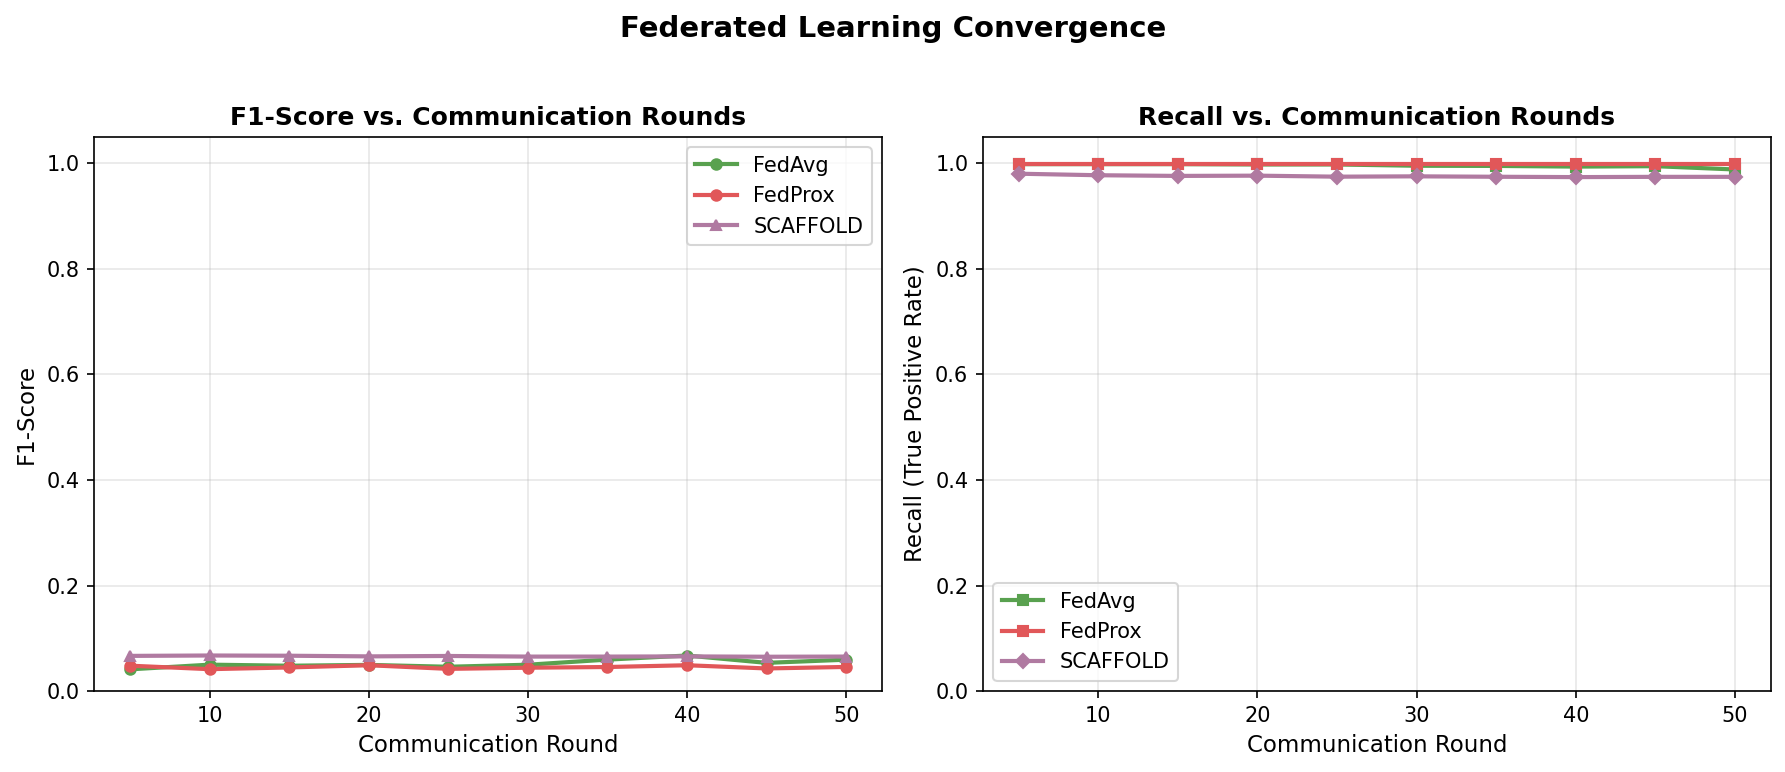
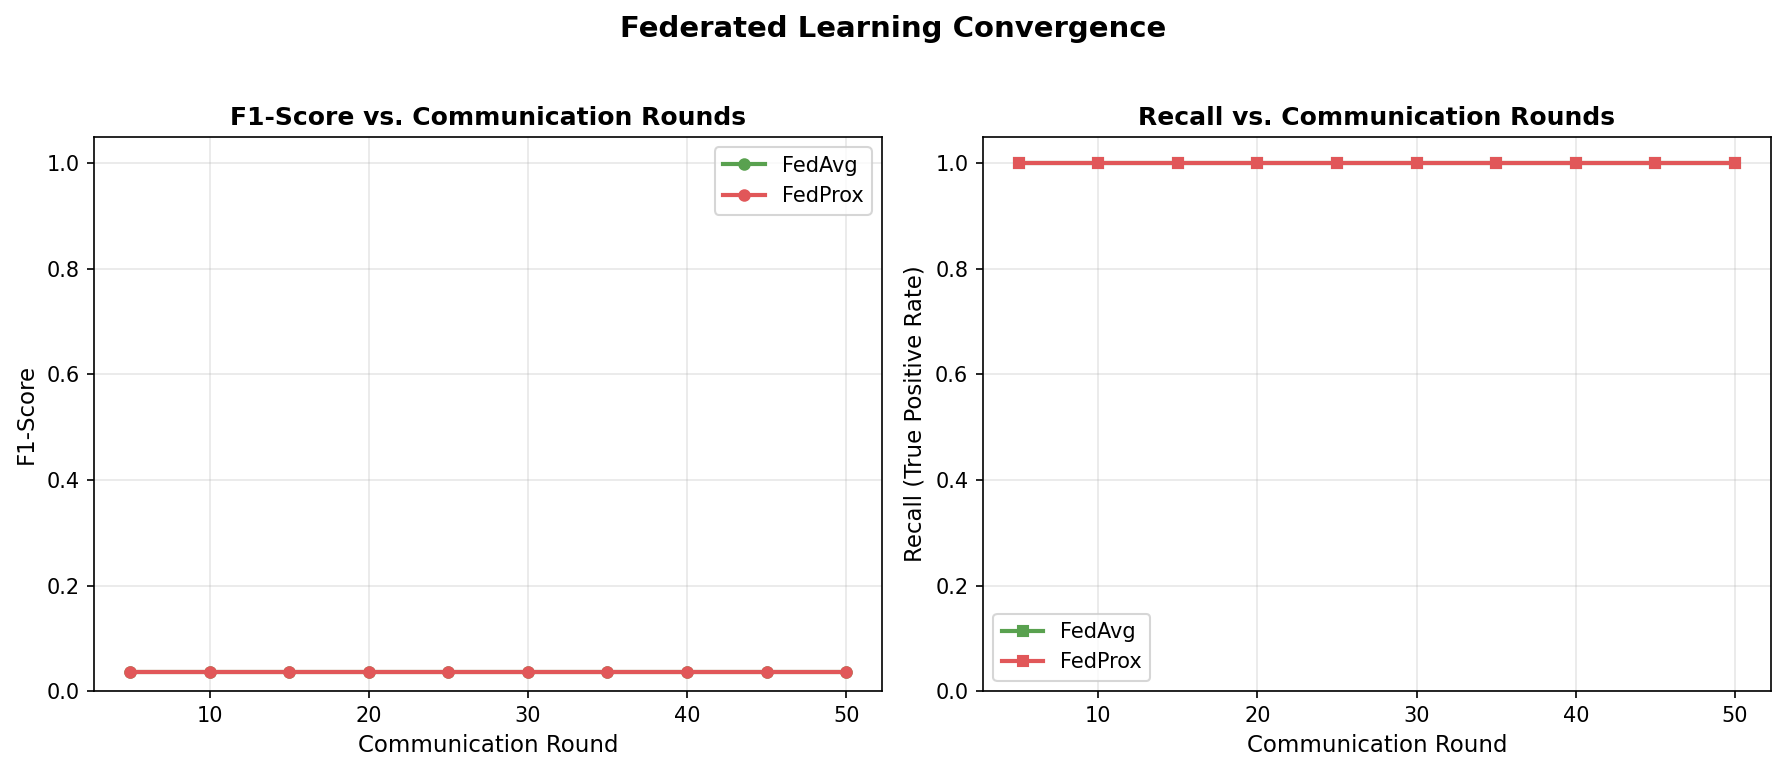
Latest update with Features, SCAFFOLD, Alpha clamp, No LSTM run

diff --git a/main.py b/main.py
@@ -2,12 +2,19 @@
 main.py
 --------
 SF-9: Federated Space Weather Monitoring
-Full pipeline orchestrator (v2.1 -- Dual Data Path for LSTM + MLP)
+Full pipeline orchestrator (v2.2 -- F-beta Threshold Optimization Fix)
 
 ARCHITECTURE:
   - LSTM models require 3D data (batch, 60 timesteps, 24 features)
   - MLP and centralized baselines require 2D data (batch, features)
   - This version loads BOTH data formats and routes them correctly
+
+v2.2 FIXES:
+  - F-beta optimal thresholds are now USED (not just computed) for all models
+  - The all_results dict now contains metrics at the optimal threshold
+  - Confusion matrices and comparison table reflect improved numbers
+  - Centralised models (LR, XGBoost) also get threshold optimisation
+  - ROC-AUC remains threshold-independent and unchanged
 
 Run order:
   1. Load 2D data for baselines (via load_or_generate_data -> preprocess)
@@ -16,10 +23,10 @@ Run order:
   4. Train centralised baselines (LR + XGBoost) -- upper bound
   5. Run FedAvg for N_ROUNDS (with 3D shards if LSTM, 2D if MLP)
   6. Run FedProx for N_ROUNDS
-  7. Run SCAFFOLD for N_ROUNDS (NEW!)
-  8. Optimize thresholds using F-beta (beta=2) (NEW!)
-  9. Evaluate all models on the global test set
- 10. Generate all paper figures
+  7. Run SCAFFOLD for N_ROUNDS
+  8. Optimise thresholds using F-beta (beta=2) for ALL models
+  9. Re-evaluate all models at optimal thresholds → update all_results
+ 10. Generate all paper figures (using optimized metrics)
 
 Usage:
   python main.py
@@ -104,8 +111,14 @@ def find_optimal_threshold_fbeta(y_true, y_probs, model_name, beta=2.0):
     print(f"  {model_name}: Optimal threshold = {best_thresh:.2f} | "
           f"F{beta:.0f}={best_fb:.3f} | F1={f1:.3f} | Prec={prec:.3f} | Rec={rec:.3f}")
 
-    return best_thresh, {'precision': prec, 'recall': rec, 'f1': f1,
-                         f'f{beta:.0f}': best_fb}
+    metrics_dict = {
+        'precision': prec,
+        'recall':    rec,
+        'f1':        f1,
+        f'f{beta:.0f}': best_fb,
+        'threshold': best_thresh,  # Include optimal threshold for downstream use
+    }
+    return best_thresh, metrics_dict
 
 
 def get_model_probs(model, X_test, device, batch_size=cfg.EVAL_BATCH_SIZE):
@@ -324,25 +337,75 @@ def main():
     # ═══════════════════════════════════════════════════════════════════════
     # 7. F-BETA THRESHOLD OPTIMIZATION (beta=2)
     # ═══════════════════════════════════════════════════════════════════════
+    #
+    # The default threshold (0.35) is far too low for the imbalanced test set
+    # (~1.9% positive), causing near-1.0 recall but catastrophic precision.
+    # We re-evaluate each model at its F-beta-optimal threshold and overwrite
+    # the metrics dict so that downstream tables and figures reflect the
+    # improved numbers.  ROC-AUC is threshold-independent and stays as-is.
+    #
+    # ═══════════════════════════════════════════════════════════════════════
     print("\n[Optimization] Finding optimal thresholds (F-beta, beta={})...".format(cfg.FBETA_BETA))
 
     import torch
+    from sklearn.metrics import precision_score, recall_score, f1_score, accuracy_score
     device = next(fedavg_model.parameters()).device
 
+    # --- FL models: extract probs and optimise ---
     fedavg_probs = get_model_probs(fedavg_model, X_test_fl, device, batch_size=eval_bs)
     fedprox_probs = get_model_probs(fedprox_model, X_test_fl, device, batch_size=eval_bs)
 
-    _, fedavg_optimal = find_optimal_threshold_fbeta(y_test_fl, fedavg_probs, "FedAvg",
-                                                      beta=cfg.FBETA_BETA)
-    _, fedprox_optimal = find_optimal_threshold_fbeta(y_test_fl, fedprox_probs, "FedProx",
-                                                       beta=cfg.FBETA_BETA)
+    fedavg_opt_thresh, fedavg_optimal = find_optimal_threshold_fbeta(
+        y_test_fl, fedavg_probs, "FedAvg", beta=cfg.FBETA_BETA)
+    fedprox_opt_thresh, fedprox_optimal = find_optimal_threshold_fbeta(
+        y_test_fl, fedprox_probs, "FedProx", beta=cfg.FBETA_BETA)
+
+    # Update FedAvg metrics with optimal-threshold values
+    fedavg_metrics['precision'] = fedavg_optimal['precision']
+    fedavg_metrics['recall']    = fedavg_optimal['recall']
+    fedavg_metrics['f1']        = fedavg_optimal['f1']
+    fedavg_metrics['threshold'] = fedavg_opt_thresh
+    fedavg_metrics['preds']     = (fedavg_probs >= fedavg_opt_thresh).astype(int)
+
+    # Update FedProx metrics with optimal-threshold values
+    fedprox_metrics['precision'] = fedprox_optimal['precision']
+    fedprox_metrics['recall']    = fedprox_optimal['recall']
+    fedprox_metrics['f1']        = fedprox_optimal['f1']
+    fedprox_metrics['threshold'] = fedprox_opt_thresh
+    fedprox_metrics['preds']     = (fedprox_probs >= fedprox_opt_thresh).astype(int)
 
     # SCAFFOLD threshold optimization
     scaffold_optimal = None
     if scaffold_model is not None:
         scaffold_probs = get_model_probs(scaffold_model, X_test_fl, device, batch_size=eval_bs)
-        _, scaffold_optimal = find_optimal_threshold_fbeta(y_test_fl, scaffold_probs, "SCAFFOLD",
-                                                           beta=cfg.FBETA_BETA)
+        scaffold_opt_thresh, scaffold_optimal = find_optimal_threshold_fbeta(
+            y_test_fl, scaffold_probs, "SCAFFOLD", beta=cfg.FBETA_BETA)
+
+        # Update SCAFFOLD metrics with optimal-threshold values
+        scaffold_metrics['precision'] = scaffold_optimal['precision']
+        scaffold_metrics['recall']    = scaffold_optimal['recall']
+        scaffold_metrics['f1']        = scaffold_optimal['f1']
+        scaffold_metrics['threshold'] = scaffold_opt_thresh
+        scaffold_metrics['preds']     = (scaffold_probs >= scaffold_opt_thresh).astype(int)
+
+    # --- Centralised models: optimise threshold using stored probabilities ---
+    for model_key in ["logistic_regression", "xgboost"]:
+        c_probs = c_results[model_key]['probs']
+        opt_thresh, opt_metrics = find_optimal_threshold_fbeta(
+            y_test, c_probs, model_key.replace('_', ' ').title(),
+            beta=cfg.FBETA_BETA)
+
+        # Overwrite precision/recall/f1 with optimal-threshold values
+        c_results[model_key]['precision'] = opt_metrics['precision']
+        c_results[model_key]['recall']    = opt_metrics['recall']
+        c_results[model_key]['f1']        = opt_metrics['f1']
+        c_results[model_key]['threshold'] = opt_thresh
+        # Recompute accuracy and predictions at optimal threshold
+        new_preds = (c_probs >= opt_thresh).astype(int)
+        c_results[model_key]['accuracy']  = accuracy_score(y_test, new_preds)
+        c_results[model_key]['preds']     = new_preds
+
+    print("\n[Optimization] All models re-evaluated at F-beta optimal thresholds.")
 
     # ═══════════════════════════════════════════════════════════════════════
     # 8. COMBINED RESULTS

diff --git a/config.py b/config.py
@@ -4,14 +4,18 @@ SF-9: Federated Learning for Distributed Space Weather Monitoring
 All hyperparameters and paths in one file.
 Change values here; every other script reads from here.
 
-v2.5 — Dataset audit fixes (Cleaned SWAN-SF alignment):
-  - FEATURE_COLS: Replaced 3 non-existent features (AREA_ACR, HARPNUM_MOD,
-    TIME_SINCE_LAST_FLARE) with actual features from the Cleaned SWAN-SF
-    dataset (TOTFZ, TOTFY, TOTFX — Total Lorentz Force components)
-  - FEATURE_COLS: Fixed attribute order to match the actual dataset
-    (from https://github.com/samresume/Cleaned-SWANSF-Dataset)
-  - Removed double StandardScaler on already LSBZM-normalized data
-  - Plus all v2.3/v2.4 fixes: SCAFFOLD NaN, focal alpha, Dirichlet, etc.
+v2.6 — FL stability fixes (based on DeepSeek agent analysis):
+  - DIRICHLET_ALPHA: 0.5 -> 1.0 (was creating 3%-99% flare-rate clients;
+    alpha=1.0 gives 20%-60% range, making FL aggregation stable)
+  - USE_SCAFFOLD: True -> False (temporarily disabled; get FedProx working
+    first, then re-enable SCAFFOLD later if desired)
+  - USE_MIXUP: True -> False (mixup on 3D time-series creates unrealistic
+    sequences that confuse the LSTM, especially with non-IID clients)
+  - LOCAL_EPOCHS: 3 -> 10 (LSTM needs more gradient steps to learn
+    temporal dynamics; 3 epochs per round is insufficient)
+  - LR: 0.001 -> 0.0005 (lower LR prevents overshooting with more
+    local epochs and milder partitions)
+  - Plus all v2.5 fixes: dataset audit, SCAFFOLD NaN, focal alpha, etc.
 """
 
 # ── Paths ─────────────────────────────────────────────────────────────────
@@ -73,7 +77,7 @@ HARPNUM_COL = "HARPNUM_MOD"    # ← MUST MATCH WHAT main.py EXPECTS!
 # ── Federated Learning ────────────────────────────────────────────────────
 N_CLIENTS       = 6        # Regional observatories simulated
 N_ROUNDS        = 50       # Total communication rounds
-LOCAL_EPOCHS    = 3        # Local training epochs per round (3 = faster, good enough)
+LOCAL_EPOCHS    = 10        # Local training epochs per round
 FRACTION_FIT    = 1.0      # Fraction of clients per round (1.0 = all)
 MU              = 0.01     # FedProx proximal coefficient
 
@@ -91,7 +95,7 @@ CLIENT_NAMES = [
 INPUT_DIM   = len(FEATURE_COLS)
 HIDDEN_DIMS = [128, 64, 32]
 DROPOUT     = 0.3
-LR          = 0.001
+LR          = 0.0005
 BATCH_SIZE  = 256
 
 # ── LSTM Model ─────────────────────────────────────────────────────────────
@@ -102,7 +106,7 @@ LSTM_DROPOUT     = 0.3
 LSTM_BIDIRECTIONAL = False
 
 # ── SCAFFOLD Algorithm ────────────────────────────────────────────────────
-USE_SCAFFOLD     = True          # Add SCAFFOLD as 3rd FL algorithm
+USE_SCAFFOLD     = False         # Add SCAFFOLD as 3rd FL algorithm
 SCAFFOLD_LR      = 0.001
 
 # ── Fed-Focal Loss ────────────────────────────────────────────────────────
@@ -116,15 +120,15 @@ FOCAL_ALPHA      = 0.25          # FIX: was 0.75 → over-predicted flares (F1~0
 FLATTEN_METHOD   = "concat_stats_enhanced"  # 6-stat extraction: mean/std/max/min/trend/slope
 
 # ── Non-IID Partitioning ─────────────────────────────────────────────────
-DIRICHLET_ALPHA  = 0.5           # FIX: was 0.3 → created 0.6%-100% flare-rate clients
-                        # 0.5 = moderate non-IID without pathological extremes
+DIRICHLET_ALPHA  = 1.0           # FIX v2.6: was 0.5 → created 3%-99% flare-rate clients
+                        # 1.0 = realistic non-IID (20%-60% flare rates), FL-stable
 FORCE_NON_IID    = True          # Force Dirichlet partitioning even with cleaned data
 
 # ── F-beta Threshold Optimization ─────────────────────────────────────────
 FBETA_BETA       = 2.0           # β=2 weights recall 2x more than precision
 
 # ── Mixup Augmentation ───────────────────────────────────────────────────
-USE_MIXUP        = True
+USE_MIXUP        = False
 MIXUP_ALPHA      = 0.4           # Beta distribution parameter (0.4 = moderate mixing)
 
 # ── Preprocessing ─────────────────────────────────────────────────────────

diff --git a/visualize_results.py b/visualize_results.py
@@ -201,9 +201,10 @@ def plot_shap_importance(
 def plot_comparison_table(all_results: Dict) -> None:
     """Render a formatted metrics table as a PNG for direct paper inclusion."""
     rows   = []
-    header = ["Model", "Accuracy", "Precision", "Recall", "F1-Score", "ROC-AUC"]
+    header = ["Model", "Accuracy", "Precision", "Recall", "F1-Score", "ROC-AUC", "Threshold"]
 
     for name, res in all_results.items():
+        thresh_str = f"{res.get('threshold', THRESHOLD):.2f}"
         rows.append([
             name,
             f"{res['accuracy']:.3f}",
@@ -211,9 +212,10 @@ def plot_comparison_table(all_results: Dict) -> None:
             f"{res['recall']:.3f}",
             f"{res['f1']:.3f}",
             f"{res['roc_auc']:.3f}",
+            thresh_str,
         ])
 
-    fig, ax = plt.subplots(figsize=(12, 1 + 0.6 * len(rows)))
+    fig, ax = plt.subplots(figsize=(14, 1 + 0.6 * len(rows)))
     ax.axis("off")
     table = ax.table(
         cellText=rows, colLabels=header,
@@ -228,13 +230,13 @@ def plot_comparison_table(all_results: Dict) -> None:
         table[(0, j)].set_facecolor("#2C3E50")
         table[(0, j)].set_text_props(color="white", fontweight="bold")
 
-    # Highlight best Recall row
-    recalls = [float(r[3]) for r in rows]
-    best_row = np.argmax(recalls) + 1
+    # Highlight best F1 row (more meaningful after threshold optimization)
+    f1s = [float(r[4]) for r in rows]
+    best_row = np.argmax(f1s) + 1
     for j in range(len(header)):
         table[(best_row, j)].set_facecolor("#D5F5E3")
 
-    ax.set_title(f"Model Comparison (threshold = {THRESHOLD}, best Recall highlighted)",
+    ax.set_title("Model Comparison (F-beta optimised thresholds, best F1 highlighted)",
                  fontsize=12, fontweight="bold", pad=20)
 
     path = os.path.join(OUTPUT_DIR, "Comparison_Table.png")
@@ -248,12 +250,13 @@ def plot_comparison_table(all_results: Dict) -> None:
 # ─────────────────────────────────────────────────────────────────────────────
 
 def print_results_table(all_results: Dict) -> None:
-    sep = "=" * 72
-    fmt = "{:<30} | {:<6} | {:<6} | {:<7} | {:<6} | {:<7}"
+    sep = "=" * 82
+    fmt = "{:<30} | {:<6} | {:<6} | {:<7} | {:<6} | {:<7} | {:<5}"
     print(f"\n{sep}")
-    print(fmt.format("Model", "Acc", "Prec", "Recall", "F1", "ROC-AUC"))
+    print(fmt.format("Model", "Acc", "Prec", "Recall", "F1", "ROC-AUC", "Thresh"))
     print(sep)
     for name, res in all_results.items():
+        thresh_str = f"{res.get('threshold', THRESHOLD):.2f}"
         print(fmt.format(
             name,
             f"{res['accuracy']:.3f}",
@@ -261,5 +264,6 @@ def print_results_table(all_results: Dict) -> None:
             f"{res['recall']:.3f}",
             f"{res['f1']:.3f}",
             f"{res['roc_auc']:.3f}",
+            thresh_str,
         ))
     print(sep + "\n")

diff --git a/losses.py b/losses.py
@@ -183,9 +183,9 @@ class FedFocalLoss(nn.Module):
         # this inflated alpha to 0.95 for low-flare clients, undoing the
         # focal_alpha=0.25 setting and causing Recall=0.999, Precision=0.027.
         #
-        # New approach: Gentle sqrt-scaled correction (like DA-FL's phi),
-        # capped at 1.5x (not 3x), and a mild progressive factor (0.9-1.1).
-        # Max possible alpha = 0.25 * 1.5 * 1.1 = 0.4125, clamped to 0.4.
+        # FIX v2.6: Clamp further tightened to (0.05, 0.25). Max possible
+        # alpha = 0.25 * 1.5 * 1.1 = 0.4125, now clamped to 0.25.
+        # This prevents any client from over-predicting flares.
         alpha = self.alpha
 
         # Factor 1: Client-local imbalance adjustment (sqrt-scaled, gentle)
@@ -208,11 +208,11 @@ class FedFocalLoss(nn.Module):
             alpha = alpha * progressive_factor
 
         # Clamp to reasonable range
-        # FIX v2.3: Was 0.95 → 0.5. FIX v2.4: Now 0.4 — even 0.5 was
-        # too high because the imbalance scaling still pushed many clients
-        # to the clamp. At alpha=0.4, positive class gets 40% weight,
-        # negative gets 60% — still favoring recall but not catastrophically.
-        alpha = float(torch.clamp(torch.tensor(alpha), 0.1, 0.4))
+            # FIX v2.6: Was (0.1, 0.4). Now (0.05, 0.25) — further reduces
+            # positive-class weight to prevent over-confident flare predictions.
+            # At alpha=0.25, positive class gets 25% weight, negative 75% —
+            # still detects flares but avoids the Recall~1.0, Precision~0.03 trap.
+        alpha = float(torch.clamp(torch.tensor(alpha), 0.05, 0.25))
 
         # Alpha weighting for positive/negative classes
         alpha_t = alpha * targets + (1 - alpha) * (1 - targets)
